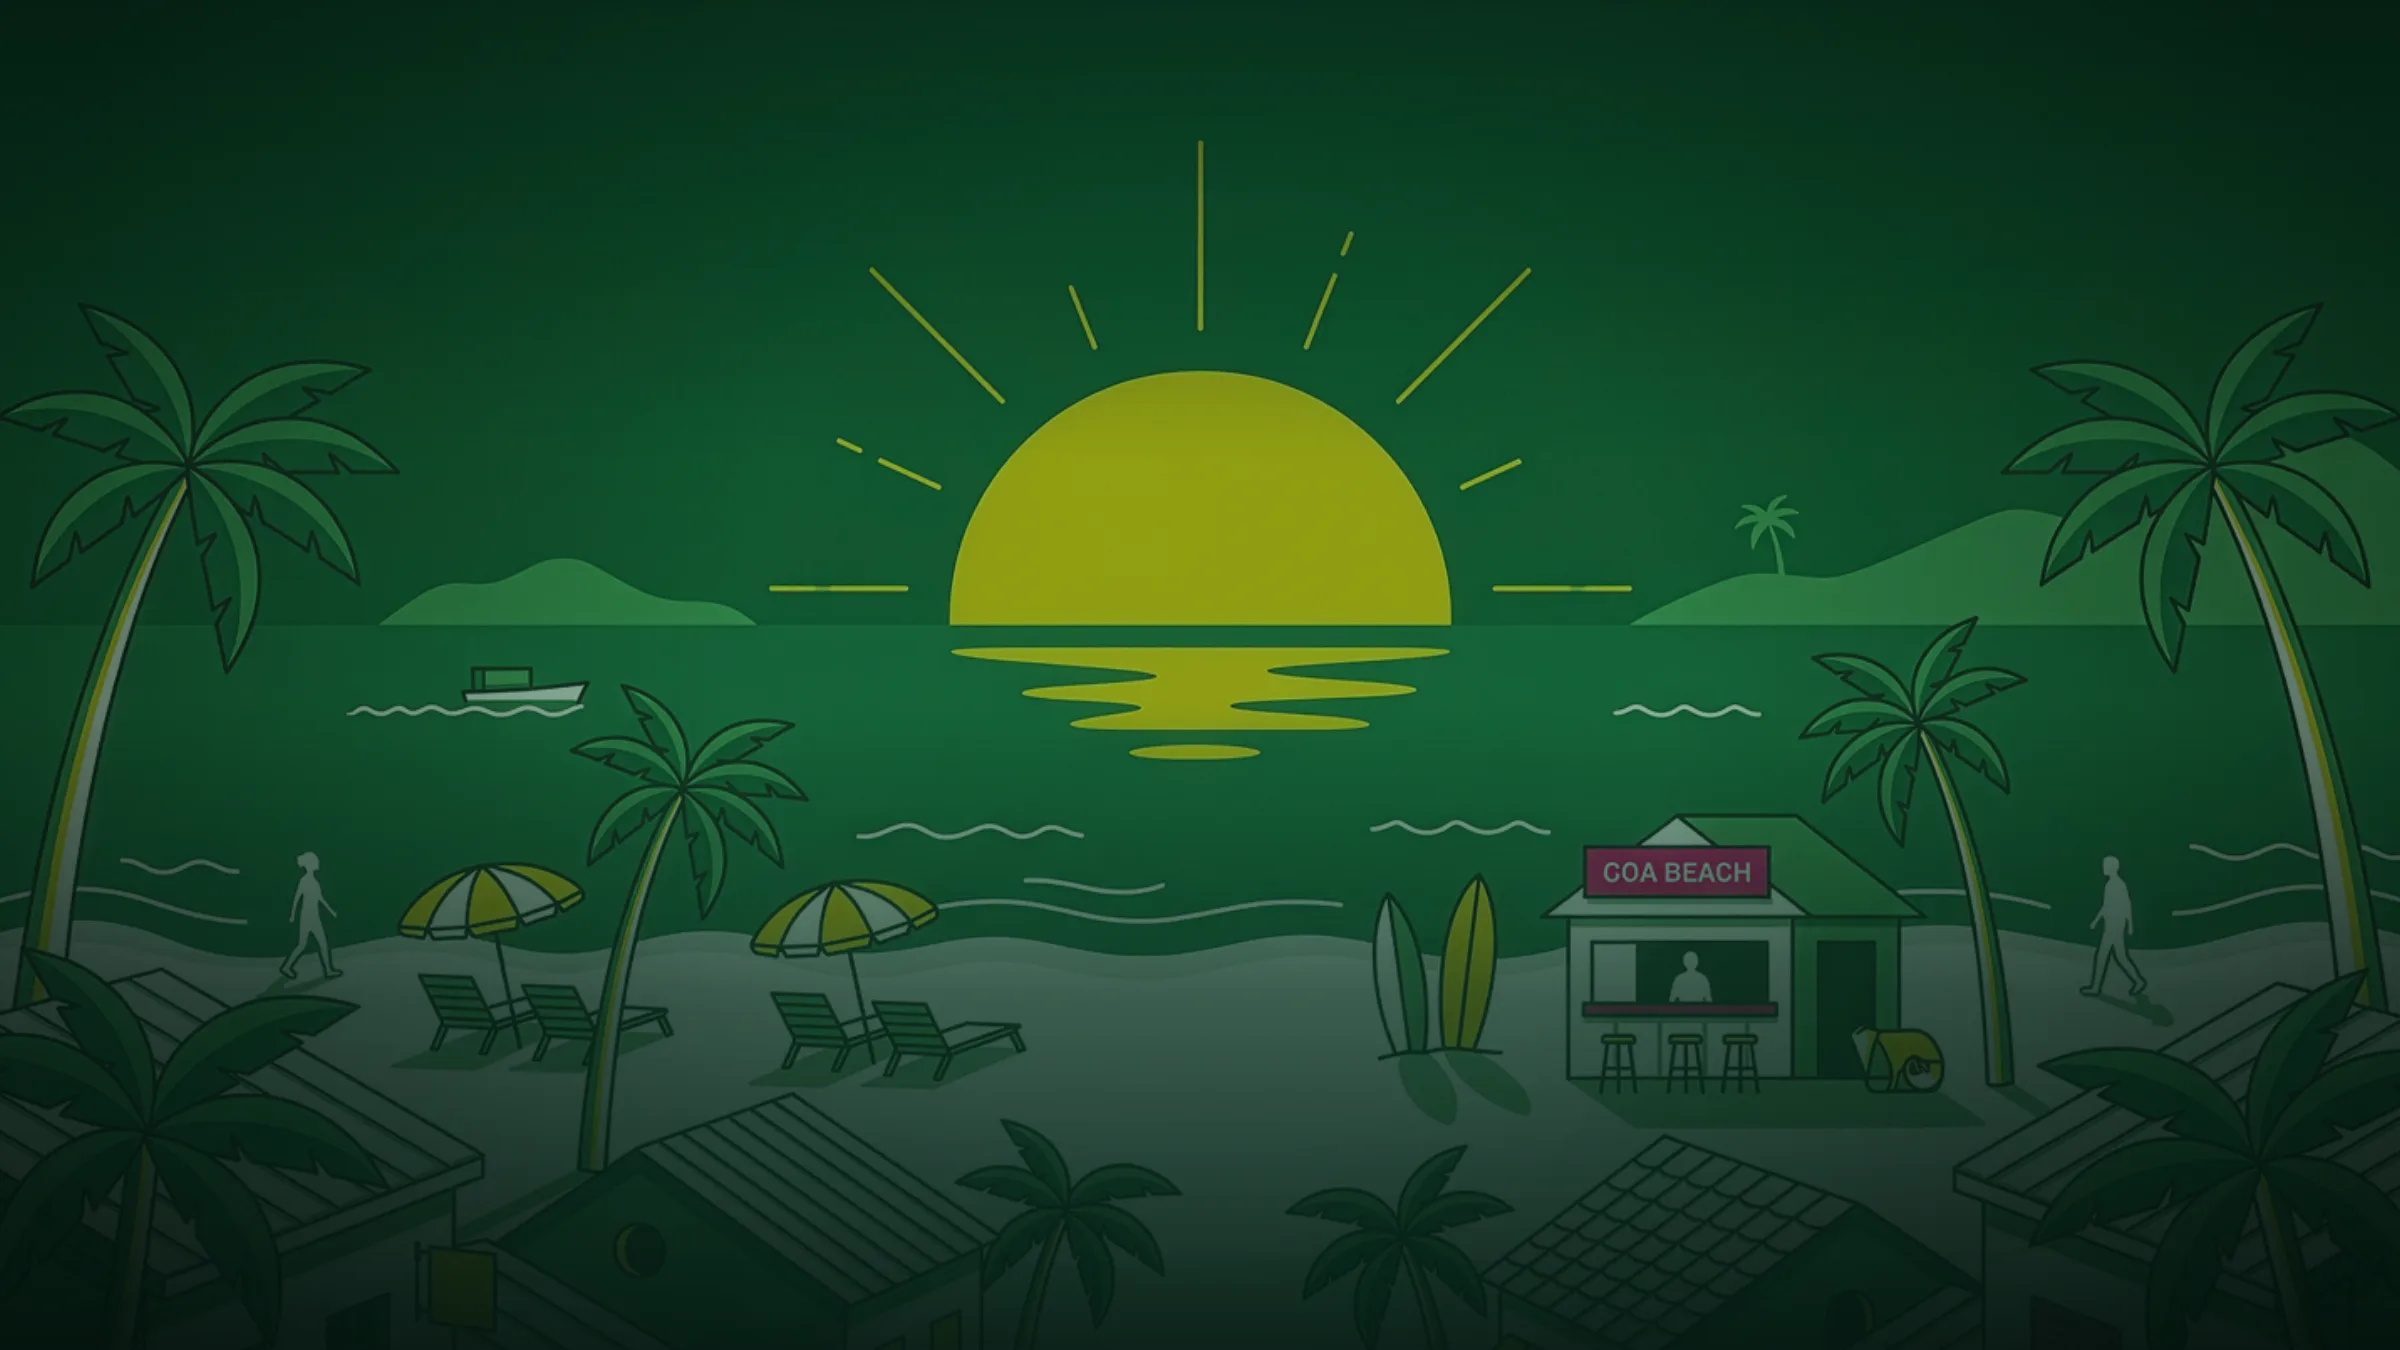
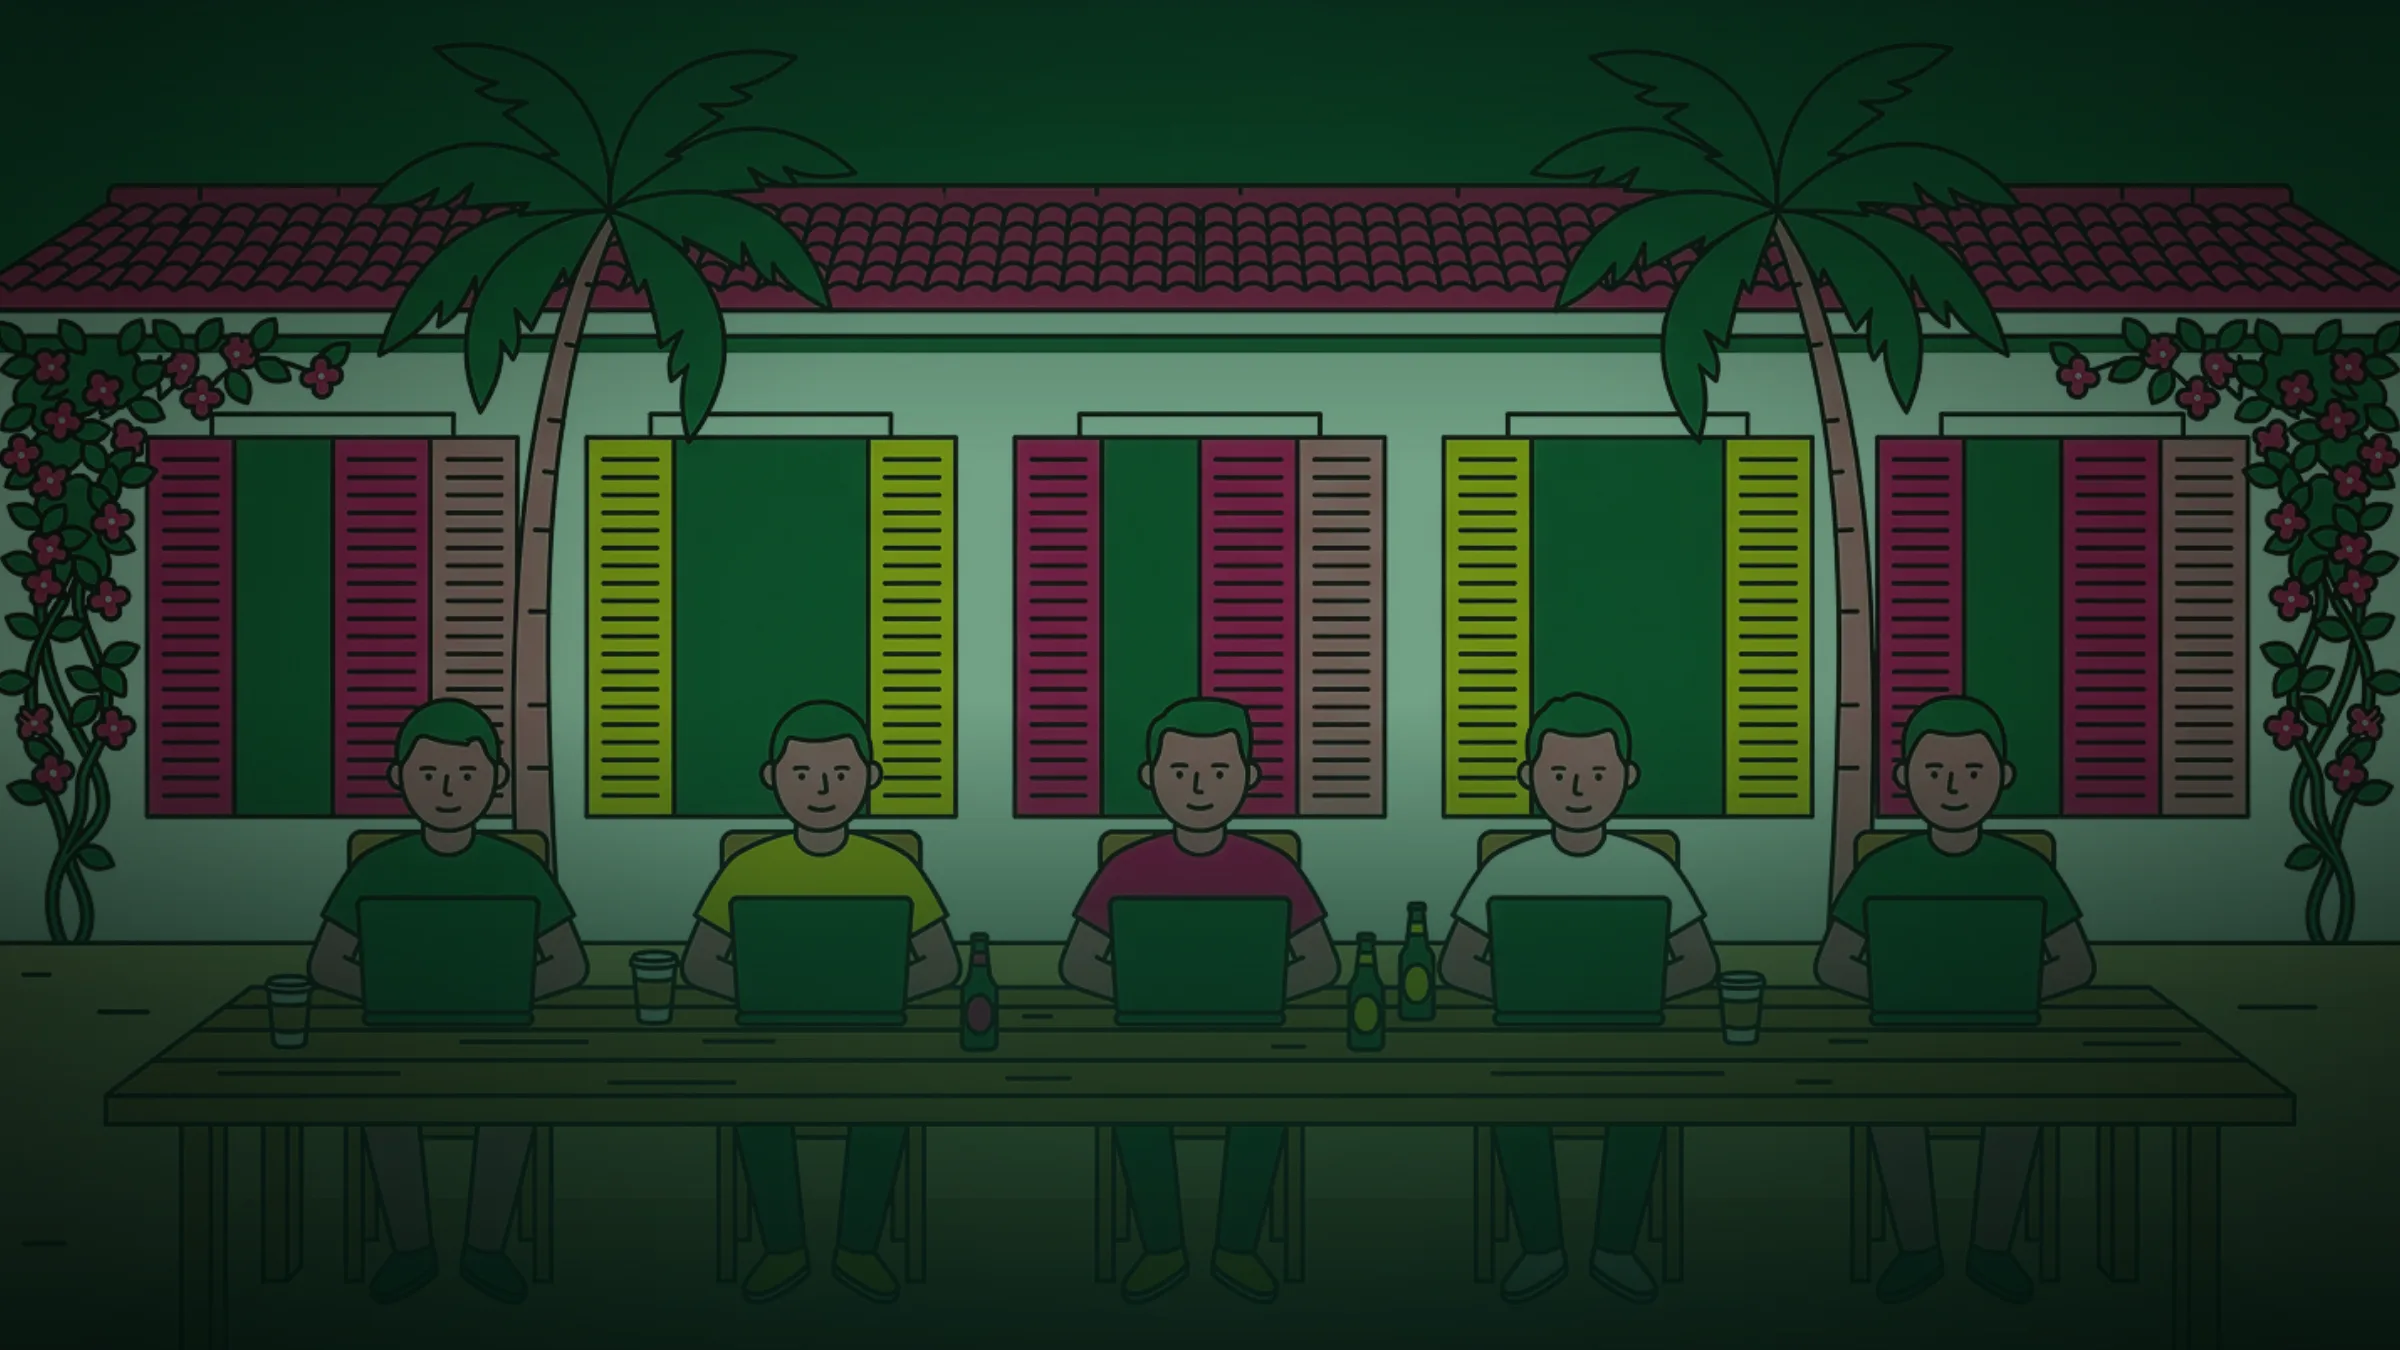
Build the crew plates from three illustrations, not one recoloured
The three printings were one scene graded three ways, which reads as a filter
rather than as a card. The solo card's three faces started as three
independently produced artworks and the crew card should match that.

hhgoa.com ships more than the beach: day is now hackers.png — five hackers at a
long table in front of a Goan house, the one official illustration that is
literally a crew, and already 1.79:1. The photo tiles land at the table with the
drawn crew either side, which is a better fit for a team pass than a beach was.
Sunrise keeps Sun rise.png; night takes footer trees.png, palms framing an open
centre, which is exactly a card's shape.

Together they also tell the event's own arc — dawn on the beach, the crew
heads-down at the table, then after dark.

day grades harder than the other two: hackers.png is mostly white house and
cream tabletop, and cream type cannot sit on that. It is also the printing that
gets exported, so it is the one that has to carry the post — the first pass took
it down to mean luma 40 and it read as evening rather than midday, so the scrim
came back off to 49.

diff --git a/scripts/crewart.ts b/scripts/crewart.ts
@@ -35,24 +35,37 @@ const OUT = join(ROOT, "public/plates/crew/incoming");
 const W = 2400;
 const H = 1350;
 
-if (!existsSync(join(RAW, "sunrise.png"))) {
-  console.error(`missing ${join(RAW, "sunrise.png")}`);
-  console.error('fetch it: curl -o sunrise.png "https://hhgoa.com/assets/Sun%20rise.png"');
-  process.exit(1);
-}
+/**
+ * Three different illustrations, not one recoloured three times.
+ *
+ * The solo card's three faces started as three independently produced
+ * artworks, and the crew card should match that. Grading a single scene three
+ * ways reads as a filter; three real scenes read as a card.
+ *
+ * They also tell the event's own arc — dawn on the beach, the crew heads-down
+ * at the table, then after dark — which is what the four days are.
+ *
+ * `crop` is the band of the source that becomes the card, as fractions of its
+ * height, chosen so the busy part lands behind the photo tiles and the calm
+ * part under the team name.
+ */
+const SOURCES = {
+  sunrise: { file: "sunrise.png", crop: [0.39, 0.95] },
+  /* five hackers at a long table in front of a Goan house — the one official
+     illustration that is literally a crew, and already 1.79:1 */
+  day: { file: "hackers.png", crop: [0.0, 1.0] },
+  /* palms framing an open centre, which is exactly a card's shape */
+  night: { file: "trees.png", crop: [0.0, 1.0] },
+} as const;
 
 mkdirSync(OUT, { recursive: true });
-const scene = await loadImage(join(RAW, "sunrise.png"));
 
-/**
- * The band of the source that becomes the card.
- *
- * Fractions of the source height. Chosen so the horizon and sun land behind the
- * photo tiles, the flat sky sits under the team name, and the villas fall into
- * the bottom third where the scrim can take them down.
- */
-const CROP_TOP = 0.39;
-const CROP_BOTTOM = 0.95;
+for (const { file } of Object.values(SOURCES)) {
+  if (existsSync(join(RAW, file))) continue;
+  console.error(`missing ${join(RAW, file)}`);
+  console.error("fetch the three from https://hhgoa.com/assets/ — see docs/crew-plates.md");
+  process.exit(1);
+}
 
 /**
  * Split-tone grade: multiply tints the darks, screen tints the lights.
@@ -87,12 +100,13 @@ type Grade = {
 };
 
 const GRADES: Record<string, Grade> = {
-  /* midday: the illustration's own palette, just deepened so cream type holds */
+  /* midday at the table. hackers.png is mostly white house and cream tabletop,
+     which cream type cannot sit on, so this grades far harder than the others */
   day: {
     base: "#0b6839",
-    shadow: "rgba(190,230,205,1)",
+    shadow: "rgba(155,210,175,1)",
     highlight: "rgba(255,245,190,0.05)",
-    scrim: "rgba(8,40,29,0.26)",
+    scrim: "rgba(8,40,29,0.30)",
   },
   /* dawn: warm all the way through, the sun doing the work */
   sunrise: {
@@ -116,9 +130,12 @@ for (const [name, grade] of Object.entries(GRADES)) {
   const canvas = createCanvas(W, H);
   const g = canvas.getContext("2d");
 
+  const source = SOURCES[name as keyof typeof SOURCES];
+  const scene = await loadImage(join(RAW, source.file));
+
   /* ---- the scene, cropped to the card ---- */
-  const sy = scene.height * CROP_TOP;
-  const sh = scene.height * (CROP_BOTTOM - CROP_TOP);
+  const sy = scene.height * source.crop[0];
+  const sh = scene.height * (source.crop[1] - source.crop[0]);
   const sw = scene.width;
 
   g.fillStyle = grade.base;

diff --git a/docs/crew-plates.md b/docs/crew-plates.md
@@ -3,37 +3,49 @@
 The crew pass has three illustrated printings — day, sunrise, blacklight — the
 way the solo card does, so it tilts and hides a secret like the solo card does.
 
-They are **generated, not hand-drawn**, from the event's own artwork:
+They are **composed, not hand-drawn**, from three of the event's own
+illustrations:
 
 ```bash
-curl -o public/plates/crew/incoming/raw/sunrise.png \
-  "https://hhgoa.com/assets/Sun%20rise.png"
+cd public/plates/crew/incoming/raw
+curl -o sunrise.png "https://hhgoa.com/assets/Sun%20rise.png"
+curl -o hackers.png "https://hhgoa.com/assets/hackers.png"
+curl -o trees.png   "https://hhgoa.com/assets/footer%20trees.png"
+cd -
 
-bun run scripts/crewart.ts      # compose the three moods -> incoming/*.png
+bun run scripts/crewart.ts      # compose the three -> incoming/crew-*.png
 bun run scripts/crewplates.ts   # encode -> public/plates/crew/*.webp
 bun run scripts/crew.ts photo.jpg
 ```
 
-`crewart.ts` crops `Sun rise.png` to the card's 16:9 and grades it three ways.
-That is the same relationship the solo plates have to each other — one scene
-under three lights — and it keeps the crew pass on the actual brand
-illustrations rather than an approximation of them.
+| Printing | Source | Why |
+|---|---|---|
+| **day** | `hackers.png` | Five hackers at a long table — the one official illustration that is literally a crew, and already 1.79:1. The photo tiles land *at the table*, with the drawn crew either side. This is also the printing that gets exported, so it is the one that has to carry the post. |
+| **sunrise** | `Sun rise.png` | Beach at dawn |
+| **night** | `footer trees.png` | Palms framing an open centre — which is exactly a card's shape |
+
+**Three different illustrations, not one recoloured three times.** The solo
+card's three faces started as three independently produced artworks, and the
+crew card matches that. An earlier version graded a single scene three ways; it
+read as a filter rather than as a card. Together they also tell the event's own
+arc — dawn on the beach, the crew heads-down at the table, then after dark.
 
 ## What the grading has to solve
 
-**The three have to be obviously different.** The first attempt used a
-`soft-light` pass, which is close to a no-op against flat saturated colour —
-sunrise came out indistinguishable from day, which defeats the point of a
-lenticular card. It now split-tones: `multiply` pulls the greens toward the
-mood's shadow colour, `screen` lifts the sun and the line work. Sunrise also
-gets a screened wash over the upper sky, because multiplying orange into green
-gives olive, which is a real dusk colour but not a dawn one.
+**Each still has to read as its time of day.** A `soft-light` pass was the first
+attempt and it is close to a no-op against flat saturated colour. It now
+split-tones: `multiply` pulls the greens toward the mood's shadow colour,
+`screen` lifts the sun and the line work. Sunrise also gets a screened wash over
+the upper sky, because multiplying orange into green gives olive — a real dusk
+colour, but not a dawn one.
 
-**The bottom third is white villas, and cream type lands on it.** The member
-names and footer sit exactly there. A gradient takes that band down hard; it
-reads as dusk rather than as a fix. `crewplates.ts` reports mean luma and warns
-past 165 — a background too bright to hold cream is the one contrast failure the
-renderer cannot correct.
+**Cream type lands on white.** `hackers.png` is mostly white house and cream
+tabletop and `Sun rise.png`'s bottom third is white villas, which is exactly
+where the member names and footer sit. A gradient takes that band down; it reads
+as dusk rather than as a fix, and `day` grades harder than the others for the
+same reason. `crewplates.ts` reports mean luma and warns past 165 — a background
+too bright to hold cream is the one contrast failure the renderer cannot
+correct.
 
 ## What the plates deliberately do not contain
 
